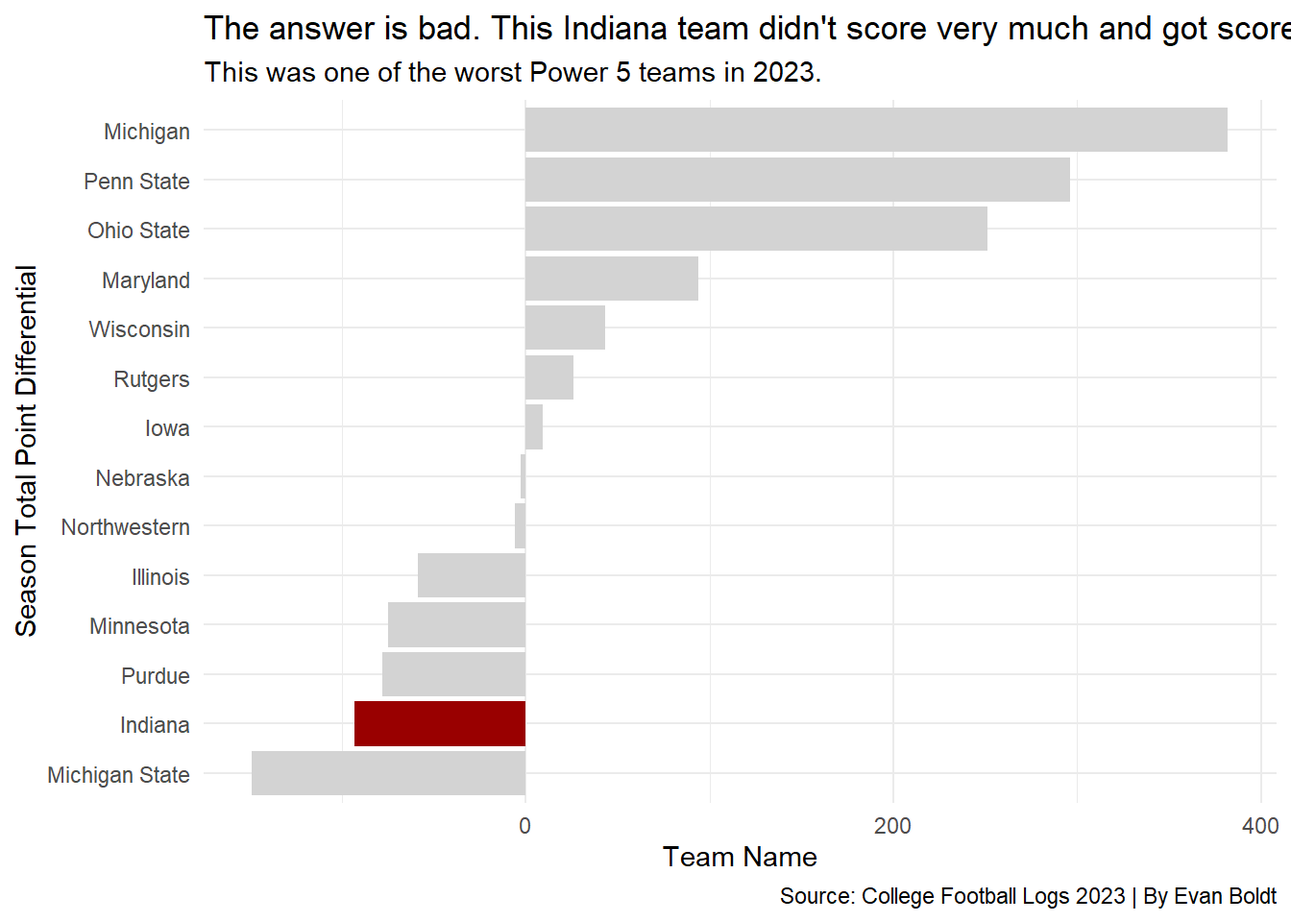
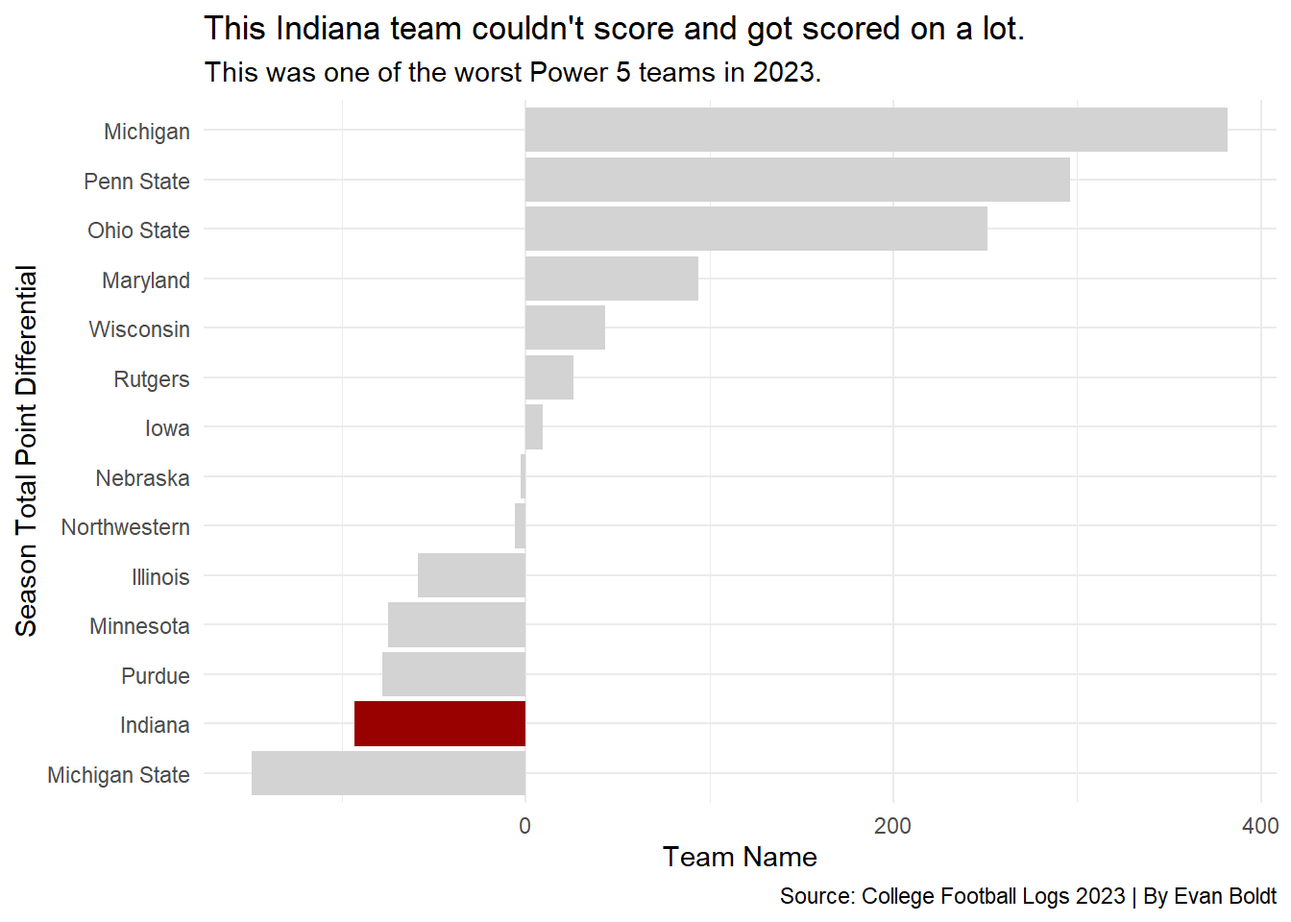
final summary

Changed region(s): [[0.1875, 0.0, 1.0, 0.0625]]

diff --git a/posts/the-curt-cignetti-effect/index.html b/posts/the-curt-cignetti-effect/index.html
@@ -234,8 +234,8 @@ pre > code.sourceCode > span > a:first-child::before { text-decoration: underlin
 <span id="cb2-25"><a href="#cb2-25" aria-hidden="true" tabindex="-1"></a>  <span class="fu">labs</span>(</span>
 <span id="cb2-26"><a href="#cb2-26" aria-hidden="true" tabindex="-1"></a>    <span class="at">x=</span><span class="st">"Season Total Point Differential"</span>, </span>
 <span id="cb2-27"><a href="#cb2-27" aria-hidden="true" tabindex="-1"></a>    <span class="at">y=</span><span class="st">"Team Name"</span>, </span>
-<span id="cb2-28"><a href="#cb2-28" aria-hidden="true" tabindex="-1"></a>    <span class="at">title=</span><span class="st">"This 2024 Indiana squad had one of the best point differentials in the Big Ten"</span>, </span>
-<span id="cb2-29"><a href="#cb2-29" aria-hidden="true" tabindex="-1"></a>    <span class="at">subtitle=</span><span class="st">"This was no doubt helped by their numerous blowout wins (Like 73-0 against Indiana State)."</span>, </span>
+<span id="cb2-28"><a href="#cb2-28" aria-hidden="true" tabindex="-1"></a>    <span class="at">title=</span><span class="st">"This 2024 Indiana squad had one of the best Big Ten point differentials."</span>, </span>
+<span id="cb2-29"><a href="#cb2-29" aria-hidden="true" tabindex="-1"></a>    <span class="at">subtitle=</span><span class="st">"This helped by their numerous blowout wins (Like 73-0 against Indiana State)."</span>, </span>
 <span id="cb2-30"><a href="#cb2-30" aria-hidden="true" tabindex="-1"></a>    <span class="at">caption=</span><span class="st">"Source: College Football Logs 2024 | By Evan Boldt"</span></span>
 <span id="cb2-31"><a href="#cb2-31" aria-hidden="true" tabindex="-1"></a>    )</span>
 <span id="cb2-32"><a href="#cb2-32" aria-hidden="true" tabindex="-1"></a></span>
@@ -245,7 +245,7 @@ pre > code.sourceCode > span > a:first-child::before { text-decoration: underlin
 <span id="cb2-36"><a href="#cb2-36" aria-hidden="true" tabindex="-1"></a>  <span class="fu">labs</span>(</span>
 <span id="cb2-37"><a href="#cb2-37" aria-hidden="true" tabindex="-1"></a>  <span class="at">x=</span><span class="st">"Season Total Point Differential"</span>, </span>
 <span id="cb2-38"><a href="#cb2-38" aria-hidden="true" tabindex="-1"></a>    <span class="at">y=</span><span class="st">"Team Name"</span>, </span>
-<span id="cb2-39"><a href="#cb2-39" aria-hidden="true" tabindex="-1"></a>    <span class="at">title=</span><span class="st">"The answer is bad. This Indiana team didn't score very much and got scored on a lot."</span>, </span>
+<span id="cb2-39"><a href="#cb2-39" aria-hidden="true" tabindex="-1"></a>    <span class="at">title=</span><span class="st">"This Indiana team couldn't score and got scored on a lot."</span>, </span>
 <span id="cb2-40"><a href="#cb2-40" aria-hidden="true" tabindex="-1"></a>    <span class="at">subtitle=</span><span class="st">"This was one of the worst Power 5 teams in 2023."</span>, </span>
 <span id="cb2-41"><a href="#cb2-41" aria-hidden="true" tabindex="-1"></a>    <span class="at">caption=</span><span class="st">"Source: College Football Logs 2023 | By Evan Boldt"</span></span>
 <span id="cb2-42"><a href="#cb2-42" aria-hidden="true" tabindex="-1"></a>    )</span>
@@ -329,7 +329,7 @@ pre > code.sourceCode > span > a:first-child::before { text-decoration: underlin
 </div>
 </div>
 </div>
-<p>Now, let’s take a look at the state of things 2023, a.k.a. 1 B.C. (Before Cignetti). How were they at moving/stopping the ball?</p>
+<p>Now, let’s take a look at the state of things 2023. How were they at moving/stopping the ball?</p>
 <div class="cell">
 <details class="code-fold">
 <summary>Code</summary>
@@ -383,7 +383,7 @@ pre > code.sourceCode > span > a:first-child::before { text-decoration: underlin
 </div>
 <p>At this point, you’re probably thinking “Evan, we get it, Indiana was really bad before Cignetti. What is your point?”</p>
 <p>My point is that the real difference between IU of old and IU of the modern day can be attributed primarily to how Cignetti’s team executes on both offense and defense. This can be quantified by a little stat called Success Rate.</p>
-<p>On offense, success rate is found by dividing the number of successful plays by the total number of plays. A play on offense is considered successful if the offense gains a certain percentage of yards needed for a first down. So, an offensive success would be at least 40%-50% of yards needed on first down, 60% on second down, and 100% on a third or fourth down. What is defensive success rate? The inverse, or total offensive failures divided by total plays.</p>
+<p>On offense, success rate is found by dividing the number of successful plays by the total number of plays. A play on offense is considered successful if the offense gains a certain percentage of yards needed for a first down. So, an offensive success would be at least 40%-50% of yards needed on first down, 60% on second down, and 100% on a third or fourth down. What is defensive success rate? The inverse, measured in opposing offensive success rate.</p>
 <p>Now with the long-winded explanation out of the way, what was 2023 Indiana’s offense and defensive success rate?</p>
 <div class="cell">
 <details class="code-fold">
@@ -402,46 +402,47 @@ pre > code.sourceCode > span > a:first-child::before { text-decoration: underlin
 <span id="cb6-12"><a href="#cb6-12" aria-hidden="true" tabindex="-1"></a>iuAdv24<span class="ot">&lt;-</span>BigAdv24<span class="sc">|&gt;</span></span>
 <span id="cb6-13"><a href="#cb6-13" aria-hidden="true" tabindex="-1"></a>  <span class="fu">filter</span>(team <span class="sc">==</span> <span class="st">"Indiana"</span>)</span>
 <span id="cb6-14"><a href="#cb6-14" aria-hidden="true" tabindex="-1"></a></span>
-<span id="cb6-15"><a href="#cb6-15" aria-hidden="true" tabindex="-1"></a>BigAdv23<span class="sc">|&gt;</span></span>
-<span id="cb6-16"><a href="#cb6-16" aria-hidden="true" tabindex="-1"></a>  <span class="fu">ungroup</span>()<span class="sc">|&gt;</span></span>
-<span id="cb6-17"><a href="#cb6-17" aria-hidden="true" tabindex="-1"></a>  <span class="fu">summarise</span>(<span class="at">offense23 =</span> <span class="fu">mean</span>(off_success_rate), <span class="at">defense23 =</span> <span class="fu">mean</span>(def_success_rate))</span></code></pre></div><button title="Copy to Clipboard" class="code-copy-button"><i class="bi"></i></button></div>
+<span id="cb6-15"><a href="#cb6-15" aria-hidden="true" tabindex="-1"></a><span class="fu">ggplot</span>()<span class="sc">+</span></span>
+<span id="cb6-16"><a href="#cb6-16" aria-hidden="true" tabindex="-1"></a>  <span class="fu">geom_point</span>(<span class="at">data=</span>BigAdv23, <span class="fu">aes</span>(<span class="at">x=</span>off_success_rate, <span class="at">y=</span>def_success_rate), <span class="at">color=</span><span class="st">"grey"</span>)<span class="sc">+</span></span>
+<span id="cb6-17"><a href="#cb6-17" aria-hidden="true" tabindex="-1"></a>  <span class="fu">geom_point</span>(<span class="at">data=</span>iuAdv23, <span class="fu">aes</span>(<span class="at">x=</span>off_success_rate, <span class="at">y=</span>def_success_rate), <span class="at">color=</span><span class="st">"#990000"</span>)<span class="sc">+</span></span>
+<span id="cb6-18"><a href="#cb6-18" aria-hidden="true" tabindex="-1"></a>  <span class="fu">geom_vline</span>(<span class="at">xintercept =</span> <span class="fl">0.4339536</span>)<span class="sc">+</span></span>
+<span id="cb6-19"><a href="#cb6-19" aria-hidden="true" tabindex="-1"></a>  <span class="fu">geom_hline</span>(<span class="at">yintercept =</span> <span class="fl">0.4052588</span>)<span class="sc">+</span></span>
+<span id="cb6-20"><a href="#cb6-20" aria-hidden="true" tabindex="-1"></a>  <span class="fu">geom_text_repel</span>(<span class="at">data=</span>BigAdv23, <span class="fu">aes</span>(<span class="at">x=</span>off_success_rate, <span class="at">y=</span>def_success_rate, <span class="at">label =</span> team))<span class="sc">+</span></span>
+<span id="cb6-21"><a href="#cb6-21" aria-hidden="true" tabindex="-1"></a>  <span class="fu">theme_minimal</span>()<span class="sc">+</span></span>
+<span id="cb6-22"><a href="#cb6-22" aria-hidden="true" tabindex="-1"></a>  <span class="fu">labs</span>(</span>
+<span id="cb6-23"><a href="#cb6-23" aria-hidden="true" tabindex="-1"></a>    <span class="at">x=</span><span class="st">"Offensive Success Rate (by percentage)"</span>, </span>
+<span id="cb6-24"><a href="#cb6-24" aria-hidden="true" tabindex="-1"></a>    <span class="at">y=</span><span class="st">"Defensive Success Rate (by percentage)"</span>, </span>
+<span id="cb6-25"><a href="#cb6-25" aria-hidden="true" tabindex="-1"></a>    <span class="at">title=</span><span class="st">"2023 Indiana was not very efficient on offense."</span>, </span>
+<span id="cb6-26"><a href="#cb6-26" aria-hidden="true" tabindex="-1"></a>    <span class="at">subtitle=</span><span class="st">"Their defensive success rate was not much better."</span>, </span>
+<span id="cb6-27"><a href="#cb6-27" aria-hidden="true" tabindex="-1"></a>    <span class="at">caption=</span><span class="st">"Source: cfbfastR | By Evan Boldt"</span></span>
+<span id="cb6-28"><a href="#cb6-28" aria-hidden="true" tabindex="-1"></a>    )</span></code></pre></div><button title="Copy to Clipboard" class="code-copy-button"><i class="bi"></i></button></div>
 </details>
-<div class="cell-output cell-output-stdout">
-<pre><code># A tibble: 1 × 2
-  offense23 defense23
-      &lt;dbl&gt;     &lt;dbl&gt;
-1     0.434     0.405</code></pre>
-</div>
-<details class="code-fold">
-<summary>Code</summary>
-<div class="code-copy-outer-scaffold"><div class="sourceCode cell-code" id="cb8"><pre class="sourceCode r code-with-copy"><code class="sourceCode r"><span id="cb8-1"><a href="#cb8-1" aria-hidden="true" tabindex="-1"></a>BigAdv24<span class="sc">|&gt;</span></span>
-<span id="cb8-2"><a href="#cb8-2" aria-hidden="true" tabindex="-1"></a>  <span class="fu">ungroup</span>()<span class="sc">|&gt;</span></span>
-<span id="cb8-3"><a href="#cb8-3" aria-hidden="true" tabindex="-1"></a>  <span class="fu">summarise</span>(<span class="at">offense24 =</span> <span class="fu">mean</span>(off_success_rate), <span class="at">defense24 =</span> <span class="fu">mean</span>(def_success_rate))</span></code></pre></div><button title="Copy to Clipboard" class="code-copy-button"><i class="bi"></i></button></div>
-</details>
-<div class="cell-output cell-output-stdout">
-<pre><code># A tibble: 1 × 2
-  offense24 defense24
-      &lt;dbl&gt;     &lt;dbl&gt;
-1     0.441     0.415</code></pre>
+<div class="cell-output-display">
+<div>
+<figure class="figure">
+<p><img src="index_files/figure-html/unnamed-chunk-6-1.png" class="img-fluid figure-img" width="672"></p>
+</figure>
 </div>
 </div>
+</div>
+<p>Now let’s compare that with 2024’s Indiana.</p>
 <div class="cell">
 <details class="code-fold">
 <summary>Code</summary>
-<div class="code-copy-outer-scaffold"><div class="sourceCode cell-code" id="cb10"><pre class="sourceCode r code-with-copy"><code class="sourceCode r"><span id="cb10-1"><a href="#cb10-1" aria-hidden="true" tabindex="-1"></a><span class="fu">ggplot</span>()<span class="sc">+</span></span>
-<span id="cb10-2"><a href="#cb10-2" aria-hidden="true" tabindex="-1"></a>  <span class="fu">geom_point</span>(<span class="at">data=</span>BigAdv23, <span class="fu">aes</span>(<span class="at">x=</span>off_success_rate, <span class="at">y=</span>def_success_rate), <span class="at">color=</span><span class="st">"grey"</span>)<span class="sc">+</span></span>
-<span id="cb10-3"><a href="#cb10-3" aria-hidden="true" tabindex="-1"></a>  <span class="fu">geom_point</span>(<span class="at">data=</span>iuAdv23, <span class="fu">aes</span>(<span class="at">x=</span>off_success_rate, <span class="at">y=</span>def_success_rate), <span class="at">color=</span><span class="st">"#990000"</span>)<span class="sc">+</span></span>
-<span id="cb10-4"><a href="#cb10-4" aria-hidden="true" tabindex="-1"></a>  <span class="fu">geom_vline</span>(<span class="at">xintercept =</span> <span class="fl">0.4339536</span>)<span class="sc">+</span></span>
-<span id="cb10-5"><a href="#cb10-5" aria-hidden="true" tabindex="-1"></a>  <span class="fu">geom_hline</span>(<span class="at">yintercept =</span> <span class="fl">0.4052588</span>)<span class="sc">+</span></span>
-<span id="cb10-6"><a href="#cb10-6" aria-hidden="true" tabindex="-1"></a>  <span class="fu">geom_text_repel</span>(<span class="at">data=</span>BigAdv23, <span class="fu">aes</span>(<span class="at">x=</span>off_success_rate, <span class="at">y=</span>def_success_rate, <span class="at">label =</span> team))<span class="sc">+</span></span>
-<span id="cb10-7"><a href="#cb10-7" aria-hidden="true" tabindex="-1"></a>  <span class="fu">theme_minimal</span>()<span class="sc">+</span></span>
-<span id="cb10-8"><a href="#cb10-8" aria-hidden="true" tabindex="-1"></a>  <span class="fu">labs</span>(</span>
-<span id="cb10-9"><a href="#cb10-9" aria-hidden="true" tabindex="-1"></a>    <span class="at">x=</span><span class="st">"Offensive Success Rate (by percentage)"</span>, </span>
-<span id="cb10-10"><a href="#cb10-10" aria-hidden="true" tabindex="-1"></a>    <span class="at">y=</span><span class="st">"Defensive Success Rate (by percentage)"</span>, </span>
-<span id="cb10-11"><a href="#cb10-11" aria-hidden="true" tabindex="-1"></a>    <span class="at">title=</span><span class="st">"2023 Indiana was not very efficient on offense."</span>, </span>
-<span id="cb10-12"><a href="#cb10-12" aria-hidden="true" tabindex="-1"></a>    <span class="at">subtitle=</span><span class="st">"Their defensive success rate was surprisingly high. Alas, it couldn't help their poor offense."</span>, </span>
-<span id="cb10-13"><a href="#cb10-13" aria-hidden="true" tabindex="-1"></a>    <span class="at">caption=</span><span class="st">"Source: cfbfastR | By Evan Boldt"</span></span>
-<span id="cb10-14"><a href="#cb10-14" aria-hidden="true" tabindex="-1"></a>    )</span></code></pre></div><button title="Copy to Clipboard" class="code-copy-button"><i class="bi"></i></button></div>
+<div class="code-copy-outer-scaffold"><div class="sourceCode cell-code" id="cb7"><pre class="sourceCode r code-with-copy"><code class="sourceCode r"><span id="cb7-1"><a href="#cb7-1" aria-hidden="true" tabindex="-1"></a><span class="fu">ggplot</span>()<span class="sc">+</span></span>
+<span id="cb7-2"><a href="#cb7-2" aria-hidden="true" tabindex="-1"></a>  <span class="fu">geom_point</span>(<span class="at">data=</span>BigAdv24, <span class="fu">aes</span>(<span class="at">x=</span>off_success_rate, <span class="at">y=</span>def_success_rate), <span class="at">color=</span><span class="st">"grey"</span>)<span class="sc">+</span></span>
+<span id="cb7-3"><a href="#cb7-3" aria-hidden="true" tabindex="-1"></a>  <span class="fu">geom_point</span>(<span class="at">data=</span>iuAdv24, <span class="fu">aes</span>(<span class="at">x=</span>off_success_rate, <span class="at">y=</span>def_success_rate), <span class="at">color=</span><span class="st">"#990000"</span>)<span class="sc">+</span></span>
+<span id="cb7-4"><a href="#cb7-4" aria-hidden="true" tabindex="-1"></a>  <span class="fu">geom_vline</span>(<span class="at">xintercept =</span> <span class="fl">0.4411546</span>)<span class="sc">+</span></span>
+<span id="cb7-5"><a href="#cb7-5" aria-hidden="true" tabindex="-1"></a>  <span class="fu">geom_hline</span>(<span class="at">yintercept =</span> <span class="fl">0.4152041</span>)<span class="sc">+</span></span>
+<span id="cb7-6"><a href="#cb7-6" aria-hidden="true" tabindex="-1"></a>  <span class="fu">geom_text_repel</span>(<span class="at">data=</span>BigAdv24, <span class="fu">aes</span>(<span class="at">x=</span>off_success_rate, <span class="at">y=</span>def_success_rate, <span class="at">label =</span> team))<span class="sc">+</span></span>
+<span id="cb7-7"><a href="#cb7-7" aria-hidden="true" tabindex="-1"></a>  <span class="fu">theme_minimal</span>()<span class="sc">+</span></span>
+<span id="cb7-8"><a href="#cb7-8" aria-hidden="true" tabindex="-1"></a>  <span class="fu">labs</span>(</span>
+<span id="cb7-9"><a href="#cb7-9" aria-hidden="true" tabindex="-1"></a>    <span class="at">x=</span><span class="st">"Offensive Success Rate (by percentage)"</span>, </span>
+<span id="cb7-10"><a href="#cb7-10" aria-hidden="true" tabindex="-1"></a>    <span class="at">y=</span><span class="st">"Defensive Success Rate (by percentage)"</span>, </span>
+<span id="cb7-11"><a href="#cb7-11" aria-hidden="true" tabindex="-1"></a>    <span class="at">title=</span><span class="st">"This Indiana team was the most efficient team in the entire Big Ten on offense."</span>, </span>
+<span id="cb7-12"><a href="#cb7-12" aria-hidden="true" tabindex="-1"></a>    <span class="at">subtitle=</span><span class="st">"Their defensive success rate was also pretty great (Shutouts help)."</span>, </span>
+<span id="cb7-13"><a href="#cb7-13" aria-hidden="true" tabindex="-1"></a>    <span class="at">caption=</span><span class="st">"Source: cfbfastR | By Evan Boldt"</span></span>
+<span id="cb7-14"><a href="#cb7-14" aria-hidden="true" tabindex="-1"></a>    )</span></code></pre></div><button title="Copy to Clipboard" class="code-copy-button"><i class="bi"></i></button></div>
 </details>
 <div class="cell-output-display">
 <div>
@@ -451,35 +452,9 @@ pre > code.sourceCode > span > a:first-child::before { text-decoration: underlin
 </div>
 </div>
 </div>
-<p>Now let’s compare that with 2024’s Indiana.</p>
-<div class="cell">
-<details class="code-fold">
-<summary>Code</summary>
-<div class="code-copy-outer-scaffold"><div class="sourceCode cell-code" id="cb11"><pre class="sourceCode r code-with-copy"><code class="sourceCode r"><span id="cb11-1"><a href="#cb11-1" aria-hidden="true" tabindex="-1"></a><span class="fu">ggplot</span>()<span class="sc">+</span></span>
-<span id="cb11-2"><a href="#cb11-2" aria-hidden="true" tabindex="-1"></a>  <span class="fu">geom_point</span>(<span class="at">data=</span>BigAdv24, <span class="fu">aes</span>(<span class="at">x=</span>off_success_rate, <span class="at">y=</span>def_success_rate), <span class="at">color=</span><span class="st">"grey"</span>)<span class="sc">+</span></span>
-<span id="cb11-3"><a href="#cb11-3" aria-hidden="true" tabindex="-1"></a>  <span class="fu">geom_point</span>(<span class="at">data=</span>iuAdv24, <span class="fu">aes</span>(<span class="at">x=</span>off_success_rate, <span class="at">y=</span>def_success_rate), <span class="at">color=</span><span class="st">"#990000"</span>)<span class="sc">+</span></span>
-<span id="cb11-4"><a href="#cb11-4" aria-hidden="true" tabindex="-1"></a>  <span class="fu">geom_vline</span>(<span class="at">xintercept =</span> <span class="fl">0.4411546</span>)<span class="sc">+</span></span>
-<span id="cb11-5"><a href="#cb11-5" aria-hidden="true" tabindex="-1"></a>  <span class="fu">geom_hline</span>(<span class="at">yintercept =</span> <span class="fl">0.4152041</span>)<span class="sc">+</span></span>
-<span id="cb11-6"><a href="#cb11-6" aria-hidden="true" tabindex="-1"></a>  <span class="fu">geom_text_repel</span>(<span class="at">data=</span>BigAdv24, <span class="fu">aes</span>(<span class="at">x=</span>off_success_rate, <span class="at">y=</span>def_success_rate, <span class="at">label =</span> team))<span class="sc">+</span></span>
-<span id="cb11-7"><a href="#cb11-7" aria-hidden="true" tabindex="-1"></a>  <span class="fu">theme_minimal</span>()<span class="sc">+</span></span>
-<span id="cb11-8"><a href="#cb11-8" aria-hidden="true" tabindex="-1"></a>  <span class="fu">labs</span>(</span>
-<span id="cb11-9"><a href="#cb11-9" aria-hidden="true" tabindex="-1"></a>    <span class="at">x=</span><span class="st">"Offensive Success Rate (by percentage)"</span>, </span>
-<span id="cb11-10"><a href="#cb11-10" aria-hidden="true" tabindex="-1"></a>    <span class="at">y=</span><span class="st">"Defensive Success Rate (by percentage)"</span>, </span>
-<span id="cb11-11"><a href="#cb11-11" aria-hidden="true" tabindex="-1"></a>    <span class="at">title=</span><span class="st">"This Indiana team was the most efficient team in the entire Big Ten on offense"</span>, </span>
-<span id="cb11-12"><a href="#cb11-12" aria-hidden="true" tabindex="-1"></a>    <span class="at">subtitle=</span><span class="st">"Their defensive success rate, however was a little lacking."</span>, </span>
-<span id="cb11-13"><a href="#cb11-13" aria-hidden="true" tabindex="-1"></a>    <span class="at">caption=</span><span class="st">"Source: cfbfastR | By Evan Boldt"</span></span>
-<span id="cb11-14"><a href="#cb11-14" aria-hidden="true" tabindex="-1"></a>    )</span></code></pre></div><button title="Copy to Clipboard" class="code-copy-button"><i class="bi"></i></button></div>
-</details>
-<div class="cell-output-display">
-<div>
-<figure class="figure">
-<p><img src="index_files/figure-html/unnamed-chunk-8-1.png" class="img-fluid figure-img" width="672"></p>
-</figure>
-</div>
-</div>
-</div>
-<p>Ultimately, defense is what cost that 2024 IU squad in the long run, being unable stop the offenses of the highest echelons of college football. But their newfound offensive prowess was and still remains the main narrative surrounding Curt Cignetti’s team andtheir unprecedented improvement from 2023.</p>
-<p>Now, in 2025, he’s hungry for more, and we’ll have to see if that high-powered offense can finally be paired with a rock solid defense.</p>
+<p>So in addition to that high-flying offense, Indiana’s defense has experienced a renaissance of its own as well.</p>
+<p>Ultimately, that 2024 IU team was unable to compete with the highest echelons of college football, with their explosive offense being quelled by top defenses and their surprisingly staunch defense not being able to keep up. But their newfound offensive prowess was and still remains the main narrative surrounding Curt Cignetti’s team and their unprecedented improvement from 2023.</p>
+<p>Now, in 2025, he’s hungry for more, and we’ll have to see if that high-powered offense and rock-solid defense can finally get it done.</p>
 
 
 

diff --git a/FastRData.html b/FastRData.html
@@ -239,27 +239,27 @@ $ season_type        &lt;chr&gt; "regular", "regular", "regular", "regular", "re
 $ start_date         &lt;chr&gt; "2025-08-23T16:00:00.000Z", "2025-08-23T17:00:00.00…
 $ start_time_tbd     &lt;lgl&gt; FALSE, FALSE, FALSE, FALSE, FALSE, FALSE, FALSE, FA…
 $ completed          &lt;lgl&gt; TRUE, TRUE, TRUE, TRUE, TRUE, TRUE, TRUE, TRUE, TRU…
-$ neutral_site       &lt;lgl&gt; TRUE, FALSE, FALSE, FALSE, FALSE, FALSE, FALSE, TRU…
+$ neutral_site       &lt;lgl&gt; TRUE, FALSE, FALSE, FALSE, FALSE, FALSE, TRUE, FALS…
 $ conference_game    &lt;lgl&gt; TRUE, TRUE, FALSE, FALSE, FALSE, TRUE, FALSE, FALSE…
 $ attendance         &lt;lgl&gt; NA, NA, NA, NA, NA, NA, NA, NA, NA, NA, NA, NA, NA,…
-$ venue_id           &lt;int&gt; 3504, 3779, 6501, 4765, 3833, 3796, 7220, 4246, 587…
+$ venue_id           &lt;int&gt; 3504, 3779, 6501, 4765, 3833, 3796, 4246, 7220, 587…
 $ venue              &lt;chr&gt; "Aviva Stadium", "Manning Field at John L. Guidry S…
-$ home_id            &lt;int&gt; 2306, 2447, 2439, 2502, 2305, 98, 62, 2582, 2120, 5…
+$ home_id            &lt;int&gt; 2306, 2447, 2439, 2502, 2305, 98, 2582, 62, 2120, 5…
 $ home_team          &lt;chr&gt; "Kansas State", "Nicholls", "UNLV", "Portland State…
-$ home_division      &lt;chr&gt; "fbs", "fcs", "fbs", "fcs", "fbs", "fbs", "fbs", "f…
+$ home_division      &lt;chr&gt; "fbs", "fcs", "fbs", "fcs", "fbs", "fbs", "fcs", "f…
 $ home_conference    &lt;chr&gt; "Big 12", "Southland", "Mountain West", "Big Sky", …
-$ home_points        &lt;int&gt; 21, 20, 38, 0, 31, 41, 23, 14, 41, 34, 34, 26, 34, …
+$ home_points        &lt;int&gt; 21, 20, 38, 0, 31, 41, 14, 23, 41, 34, 26, 34, 37, …
 $ home_post_win_prob &lt;dbl&gt; 0.20154442, 0.70978606, 0.97878689, 0.02811497, 1.0…
-$ home_pregame_elo   &lt;int&gt; 1669, NA, NA, NA, 1583, 1409, 1257, NA, NA, 1456, N…
-$ home_postgame_elo  &lt;int&gt; 1666, NA, NA, NA, 1632, 1450, 1258, NA, NA, 1554, N…
-$ away_id            &lt;int&gt; 66, 2916, 304, 2627, 278, 2534, 24, 2428, 11, 68, 1…
+$ home_pregame_elo   &lt;int&gt; 1669, NA, NA, NA, 1583, 1409, NA, 1257, NA, 1456, 1…
+$ home_postgame_elo  &lt;int&gt; 1666, NA, NA, NA, 1632, 1450, NA, 1258, NA, 1554, 1…
+$ away_id            &lt;int&gt; 66, 2916, 304, 2627, 278, 2534, 2428, 24, 11, 68, 3…
 $ away_team          &lt;chr&gt; "Iowa State", "Incarnate Word", "Idaho State", "Tar…
-$ away_division      &lt;chr&gt; "fbs", "fcs", "fcs", "fcs", "fbs", "fbs", "fbs", "f…
+$ away_division      &lt;chr&gt; "fbs", "fcs", "fcs", "fcs", "fbs", "fbs", "fcs", "f…
 $ away_conference    &lt;chr&gt; "Big 12", "Southland", "Big Sky", "UAC", "Mountain …
-$ away_points        &lt;int&gt; 24, 6, 31, 42, 7, 24, 20, 31, 14, 7, 0, 7, 31, 45, …
+$ away_points        &lt;int&gt; 24, 6, 31, 42, 7, 24, 31, 20, 14, 7, 7, 31, 17, 15,…
 $ away_post_win_prob &lt;dbl&gt; 0.79845558, 0.29021394, 0.02121311, 0.97188503, 0.0…
-$ away_pregame_elo   &lt;int&gt; 1616, NA, NA, NA, 1490, 1452, 1283, NA, NA, 1676, N…
-$ away_postgame_elo  &lt;int&gt; 1619, NA, NA, NA, 1441, 1411, 1282, NA, NA, 1578, N…
+$ away_pregame_elo   &lt;int&gt; 1616, NA, NA, NA, 1490, 1452, NA, 1283, NA, 1676, N…
+$ away_postgame_elo  &lt;int&gt; 1619, NA, NA, NA, 1441, 1411, NA, 1282, NA, 1578, N…
 $ excitement_index   &lt;dbl&gt; 6.029094, 5.126499, 9.598562, 4.943514, 3.783041, 6…
 $ highlights         &lt;chr&gt; "", "", "", "", "", "", "", "", "", "", "", "", "",…
 $ notes              &lt;chr&gt; "Aer Lingus College Football Classic", NA, NA, NA, …</code></pre>

diff --git a/index.html b/index.html
@@ -204,7 +204,7 @@ window.Quarto = {
 
 <div class="quarto-listing quarto-listing-container-default" id="listing-listing">
 <div class="list quarto-listing-default">
-<div class="quarto-post image-right" data-index="0" data-categories="Zm9vdGJhbGwlMkNjZmIlMkNpbmRpYW5h" data-listing-date-sort="1762236000000" data-listing-file-modified-sort="1763489662431" data-listing-date-modified-sort="NaN" data-listing-reading-time-sort="8" data-listing-word-count-sort="1555">
+<div class="quarto-post image-right" data-index="0" data-categories="Zm9vdGJhbGwlMkNjZmIlMkNpbmRpYW5h" data-listing-date-sort="1762236000000" data-listing-file-modified-sort="1763491281903" data-listing-date-modified-sort="NaN" data-listing-reading-time-sort="8" data-listing-word-count-sort="1540">
 <div class="thumbnail"><a href="./posts/the-curt-cignetti-effect/index.html" class="no-external">
 
 <img loading="lazy" src="./posts/the-curt-cignetti-effect/image.png" class="thumbnail-image">
